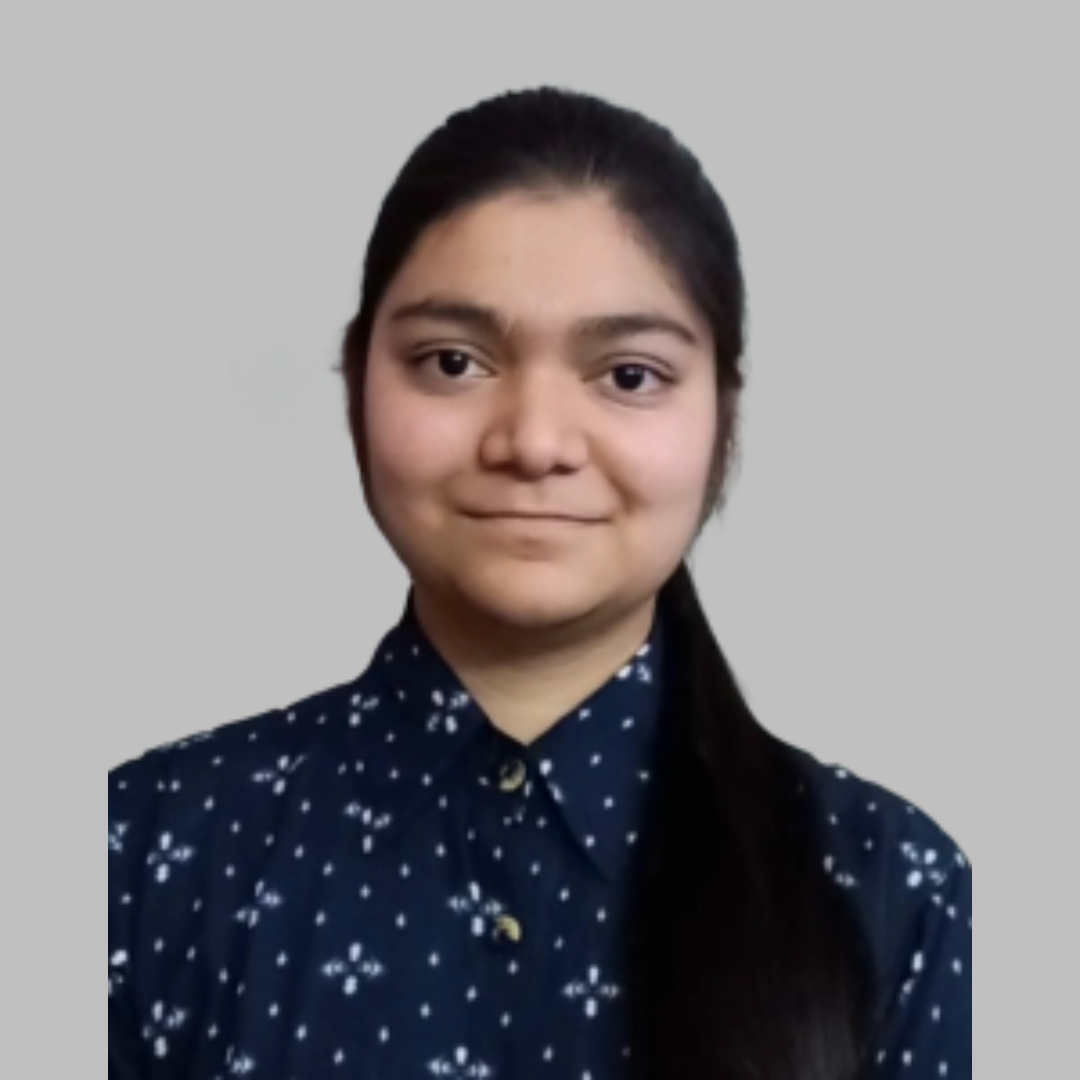
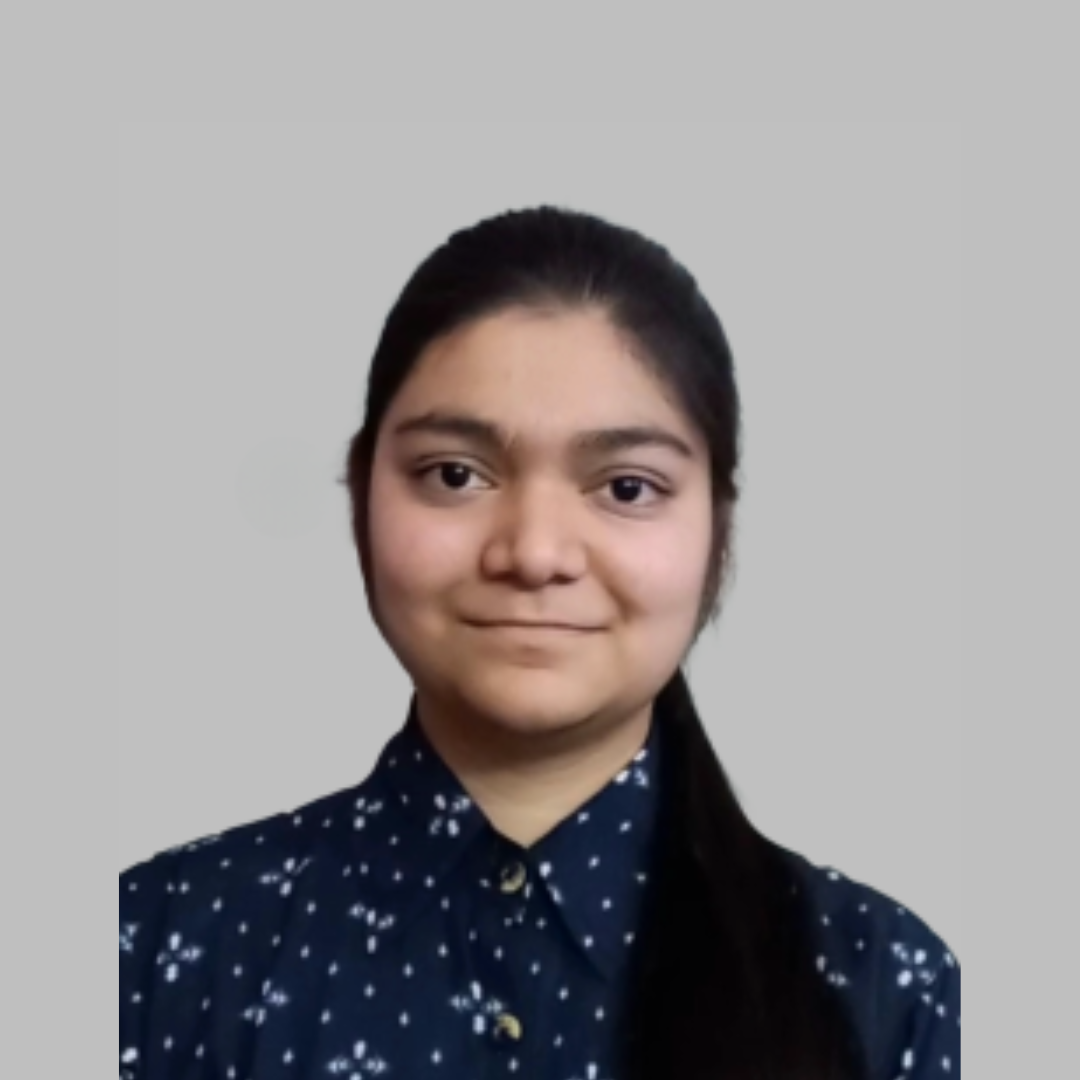
Home Page Basic Layout

Changed region(s): [[0.0917, 0.0611, 0.9167, 1.0], [0.5194, 0.9778, 0.55, 1.0]]

diff --git a/team.html b/team.html
@@ -326,7 +326,7 @@
                 <div class="content-overlay"></div>
                 <img
                   class="content-image card-img-top d-block rounded-full place-self-center relative"
-                  src="Assets/Team/Tech/Cores/Untitled design.png"
+                  src="Assets/Team/Tech/Cores/Ananya Gupta Final.png"
                 />
                 <div class="content-details fadeIn-bottom">
                   <a
